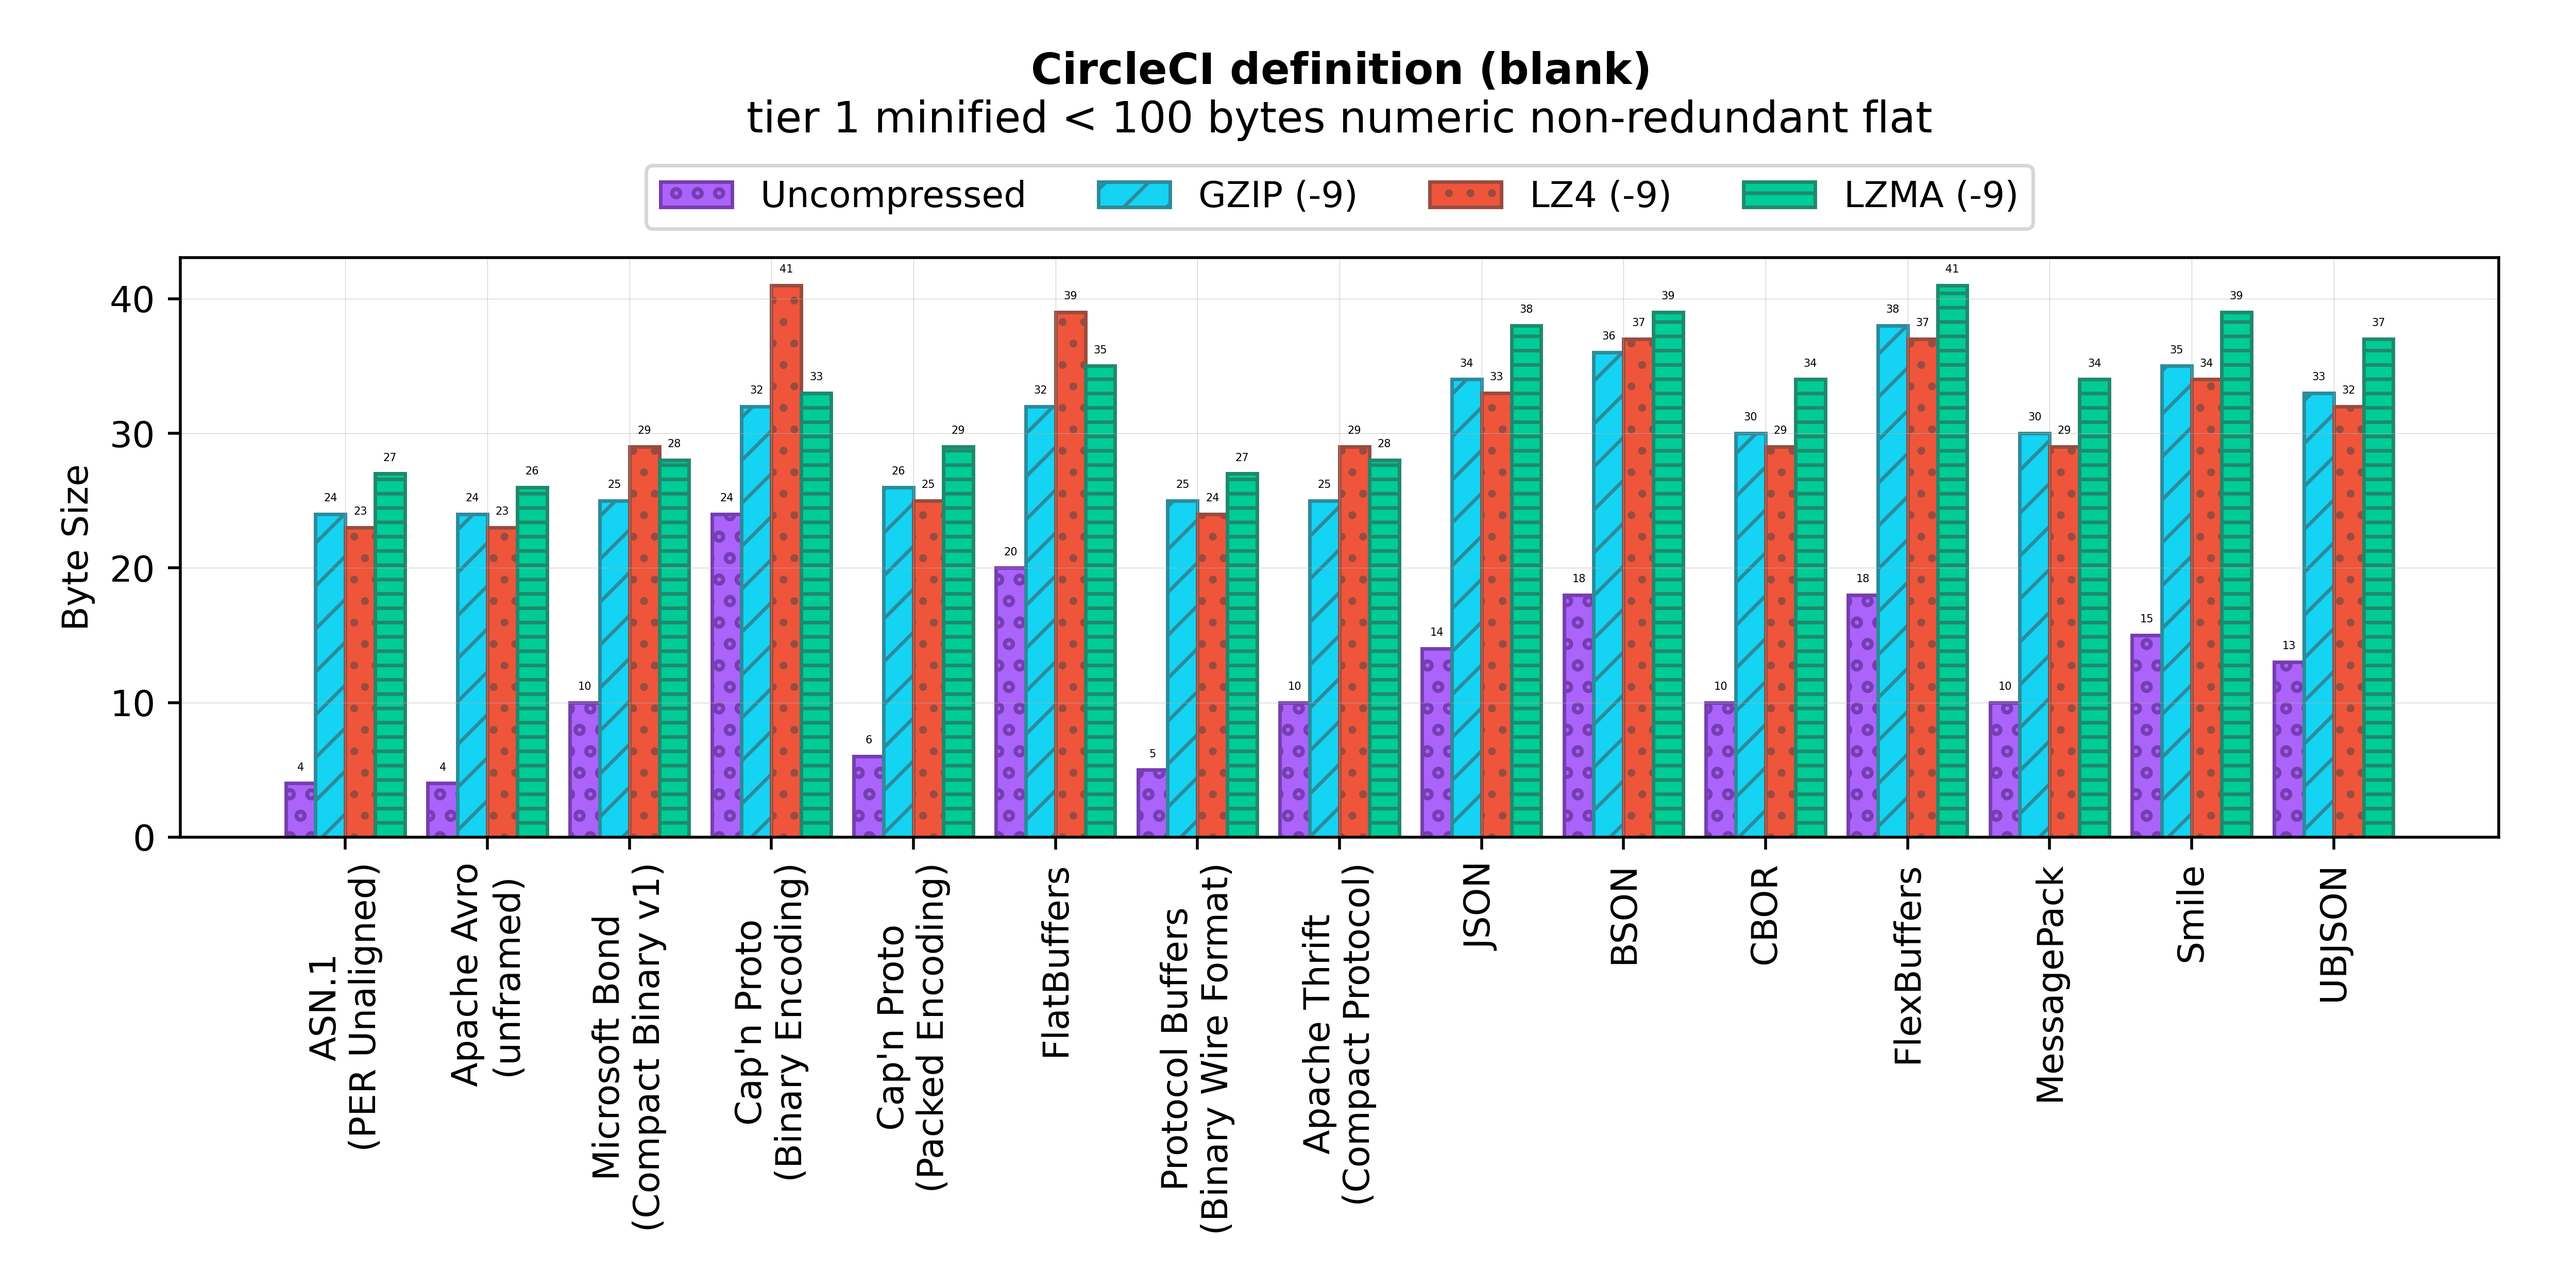
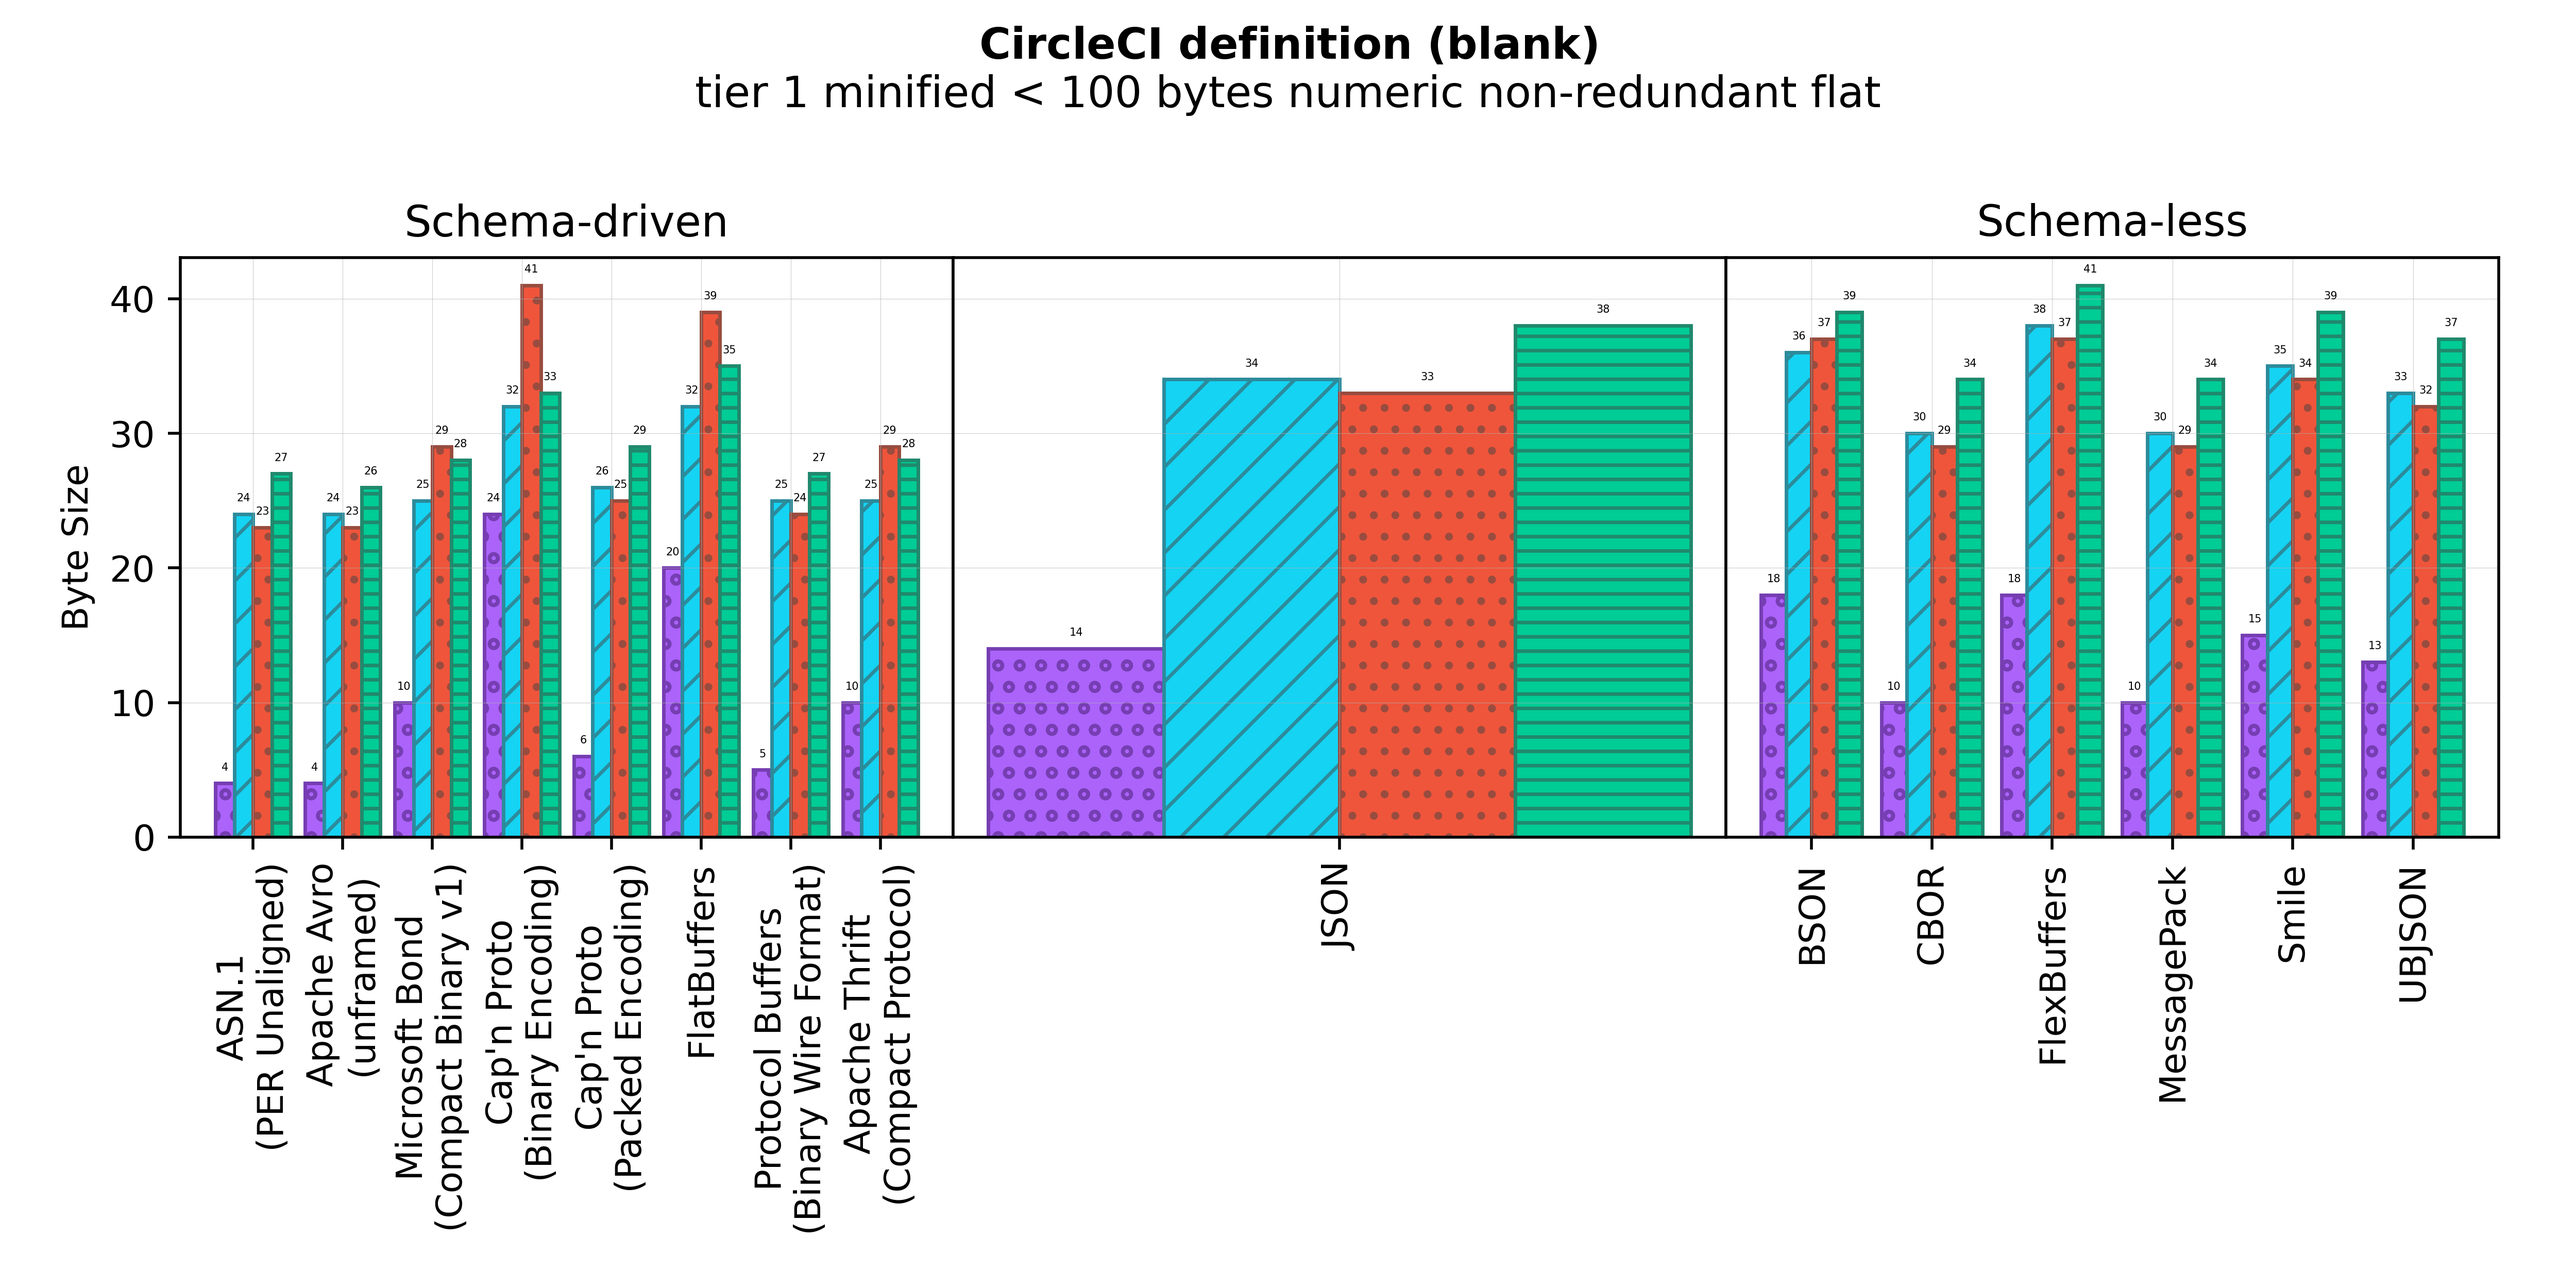
Implement subplots

diff --git a/plot.py b/plot.py
@@ -2,11 +2,29 @@ import sys
 import matplotlib.pyplot as plt
 import numpy
 
-labels = []
-uncompressed = []
-gzip = []
-lz4 = []
-lzma = []
+PLOT1 = {
+    'labels': [],
+    'uncompressed': [],
+    'gzip': [],
+    'lz4': [],
+    'lzma': [],
+}
+
+PLOT2 = {
+    'labels': [],
+    'uncompressed': [],
+    'gzip': [],
+    'lz4': [],
+    'lzma': [],
+}
+
+PLOT3 = {
+    'labels': [],
+    'uncompressed': [],
+    'gzip': [],
+    'lz4': [],
+    'lzma': [],
+}
 
 def unquote(string):
     return string[1:-1]
@@ -14,47 +32,119 @@ def unquote(string):
 fd = open(sys.argv[1], 'r')
 lines = fd.readlines()
 headers = list(map(unquote, lines[0].strip().split(',')))
+
+json_id = len(lines)
+
 for line in lines[1:]:
     columns = line.strip().split(',')
     id = int(columns[0])
-    labels.append(unquote(columns[2].replace('\\n', '\n')))
-    uncompressed.append(int(columns[3]))
-    gzip.append(int(columns[4]))
-    lz4.append(int(columns[5]))
-    lzma.append(int(columns[6]))
+
+    label = unquote(columns[2].replace('\\n', '\n'))
+    uncompressed = int(columns[3])
+    gzip = int(columns[4])
+    lz4 = int(columns[5])
+    lzma = int(columns[6])
+
+    if columns[1] == 'json':
+      json_id = id
+      PLOT2['labels'].append(label)
+      PLOT2['uncompressed'].append(uncompressed)
+      PLOT2['gzip'].append(gzip)
+      PLOT2['lz4'].append(lz4)
+      PLOT2['lzma'].append(lzma)
+      continue
+    if id < json_id:
+      PLOT1['labels'].append(label)
+      PLOT1['uncompressed'].append(uncompressed)
+      PLOT1['gzip'].append(gzip)
+      PLOT1['lz4'].append(lz4)
+      PLOT1['lzma'].append(lzma)
+    else:
+      PLOT3['labels'].append(label)
+      PLOT3['uncompressed'].append(uncompressed)
+      PLOT3['gzip'].append(gzip)
+      PLOT3['lz4'].append(lz4)
+      PLOT3['lzma'].append(lzma)
 fd.close()
 
-x = numpy.arange(len(labels))
+fig = plt.figure(constrained_layout=True)
+ax = fig.add_gridspec(1, 3)
+ax1 = fig.add_subplot(ax[0, 0])
+ax2 = fig.add_subplot(ax[0, 1])
+ax3 = fig.add_subplot(ax[0, 2])
+
+#  fig, (ax1, ax2, ax3) = plt.subplots(1, 3, sharey=True)
+
+#  fig, (ax1, ax2, ax3) = plt.subplots(1, 3, sharey=True)
+
+x1 = numpy.arange(len(PLOT1['labels']))
+x2 = numpy.arange(len(PLOT2['labels']))
+x3 = numpy.arange(len(PLOT3['labels']))
 width = 0.21
 
-fig, ax = plt.subplots()
-fillcolor = '#444'
-rects1 = ax.bar(x - width * 1.5, uncompressed, width, label=headers[3], edgecolor='#763EB2', color='#AB63FA', hatch="oo")
-rects2 = ax.bar(x - width * 0.5, gzip, width, label=headers[4], edgecolor='#2C8B9B', color='#15D3F3', hatch="//")
-rects3 = ax.bar(x + width * 0.5, lz4, width, label=headers[5], edgecolor='#984C3F', color='#EF553B', hatch="..")
-rects4 = ax.bar(x + width * 1.5, lzma, width, label=headers[6], edgecolor='#20896D', color='#00CC96', hatch="---")
+plot1_rects1 = ax1.bar(x1 - width * 1.5, PLOT1['uncompressed'], width, label=headers[3], edgecolor='#763EB2', color='#AB63FA', hatch="oo")
+plot1_rects2 = ax1.bar(x1 - width * 0.5, PLOT1['gzip'], width, label=headers[4], edgecolor='#2C8B9B', color='#15D3F3', hatch="//")
+plot1_rects3 = ax1.bar(x1 + width * 0.5, PLOT1['lz4'], width, label=headers[5], edgecolor='#984C3F', color='#EF553B', hatch="..")
+plot1_rects4 = ax1.bar(x1 + width * 1.5, PLOT1['lzma'], width, label=headers[6], edgecolor='#20896D', color='#00CC96', hatch="---")
 
-plt.grid(b=True, axis='both', linewidth=0.1)
+plot2_rects1 = ax2.bar(x2 - width * 1.5, PLOT2['uncompressed'], width, label=headers[3], edgecolor='#763EB2', color='#AB63FA', hatch="oo")
+plot2_rects2 = ax2.bar(x2 - width * 0.5, PLOT2['gzip'], width, label=headers[4], edgecolor='#2C8B9B', color='#15D3F3', hatch="//")
+plot2_rects3 = ax2.bar(x2 + width * 0.5, PLOT2['lz4'], width, label=headers[5], edgecolor='#984C3F', color='#EF553B', hatch="..")
+plot2_rects4 = ax2.bar(x2 + width * 1.5, PLOT2['lzma'], width, label=headers[6], edgecolor='#20896D', color='#00CC96', hatch="---")
+
+plot3_rects1 = ax3.bar(x3 - width * 1.5, PLOT3['uncompressed'], width, label=headers[3], edgecolor='#763EB2', color='#AB63FA', hatch="oo")
+plot3_rects2 = ax3.bar(x3 - width * 0.5, PLOT3['gzip'], width, label=headers[4], edgecolor='#2C8B9B', color='#15D3F3', hatch="//")
+plot3_rects3 = ax3.bar(x3 + width * 0.5, PLOT3['lz4'], width, label=headers[5], edgecolor='#984C3F', color='#EF553B', hatch="..")
+plot3_rects4 = ax3.bar(x3 + width * 1.5, PLOT3['lzma'], width, label=headers[6], edgecolor='#20896D', color='#00CC96', hatch="---")
+
+ax1.grid(b=True, axis='both', linewidth=0.1)
+ax2.grid(b=True, axis='both', linewidth=0.1)
+ax3.grid(b=True, axis='both', linewidth=0.1)
+
+ax1.set_title('Schema-driven')
+#  ax2.set_title('JSON')
+ax3.set_title('Schema-less')
 
 title = sys.argv[2].replace(' ', '\\ ')
 subtitle = sys.argv[3]
 
-ax.set_ylabel('Byte Size')
-ax.set_title('$\\bf{' + title + '}$' + '\n' + subtitle, pad=35)
-ax.set_xticks(x)
-ax.set_xticklabels(labels, ha='center')
-ax.legend(loc='upper center', bbox_to_anchor=(0.5, 1.19), ncol=4)
+ax1.set_ylabel('Byte Size')
+fig.suptitle('$\\bf{' + title + '}$' + '\n' + subtitle)
 
-ax.tick_params(axis="x", rotation=90)
+ax1.set_xticks(x1)
+ax2.set_xticks(x2)
+ax3.set_xticks(x3)
+
+ax1.set_xticklabels(PLOT1['labels'], ha='center')
+ax2.set_xticklabels(PLOT2['labels'], ha='center')
+ax3.set_xticklabels(PLOT3['labels'], ha='center')
+
+ax1.tick_params(axis="x", rotation=90)
+ax2.tick_params(axis="x", rotation=90)
+ax3.tick_params(axis="x", rotation=90)
+
+ax2.tick_params(axis="y", left=False, labelleft=False)
+ax3.tick_params(axis="y", left=False, labelleft=False)
+
+#  ax1.legend(loc='upper center', bbox_to_anchor=(0.5, 1.19), ncol=4)
 
 fontsize = 3
 padding = 3
-ax.bar_label(rects1, padding=padding, fontsize=fontsize)
-ax.bar_label(rects2, padding=padding, fontsize=fontsize)
-ax.bar_label(rects3, padding=padding, fontsize=fontsize)
-ax.bar_label(rects4, padding=padding, fontsize=fontsize)
+ax1.bar_label(plot1_rects1, padding=padding, fontsize=fontsize)
+ax1.bar_label(plot1_rects2, padding=padding, fontsize=fontsize)
+ax1.bar_label(plot1_rects3, padding=padding, fontsize=fontsize)
+ax1.bar_label(plot1_rects4, padding=padding, fontsize=fontsize)
+ax2.bar_label(plot2_rects1, padding=padding, fontsize=fontsize)
+ax2.bar_label(plot2_rects2, padding=padding, fontsize=fontsize)
+ax2.bar_label(plot2_rects3, padding=padding, fontsize=fontsize)
+ax2.bar_label(plot2_rects4, padding=padding, fontsize=fontsize)
+ax3.bar_label(plot3_rects1, padding=padding, fontsize=fontsize)
+ax3.bar_label(plot3_rects2, padding=padding, fontsize=fontsize)
+ax3.bar_label(plot3_rects3, padding=padding, fontsize=fontsize)
+ax3.bar_label(plot3_rects4, padding=padding, fontsize=fontsize)
 
 fig.tight_layout()
+fig.subplots_adjust(wspace=0)
 fig.set_figheight(5)
 fig.set_figwidth(10)
 
